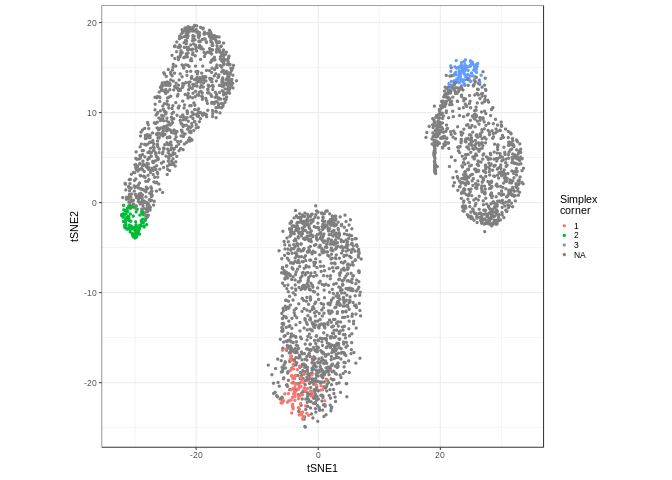
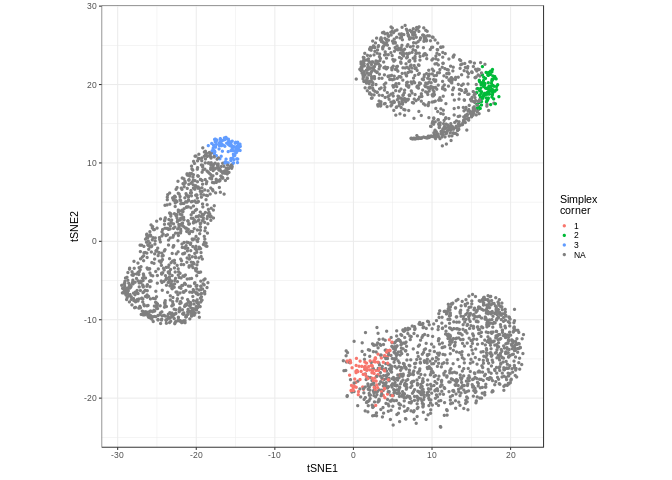
modified readme text

diff --git a/Readme.md b/Readme.md
@@ -27,7 +27,7 @@ lo <- LinseedObject$new("GSE19830", samples=10:42, topGenes=10000)
 Coolinearity networks
 ---------------------
 
-To build a coolinearity network we first have to evaluate all pairwise collinearity coefficients, all pairwise spearman correlation and then run select genes that have at least one gene that is very collinear ( *R*<sup>2</sup> &gt; =0.99 ) with it and 10 genes that are less collinear ( *R*<sup>2</sup> &gt; =0.95 ). We only leave genes that meet both requirements. Be very carefull `calculatePairwiseLinearity` is very memory-demanding method ( *N*<sup>2</sup> memory where *N* is the number of genes).
+To build a coolinearity network we first have to evaluate all pairwise collinearity coefficients, all pairwise spearman correlation and then run significance test which will calculate p value for each each by shuffling network weights randomly.
 
 ``` r
 lo$calculatePairwiseLinearity()
@@ -40,6 +40,13 @@ lo$significancePlot(0.01)
 
 ``` r
 lo$filterDatasetByPval(0.01)
+```
+
+    ## Total number of genes is 10000
+
+    ## The number of genes after filtering is 3297
+
+``` r
 lo$svdPlot()
 ```
 
@@ -67,7 +74,7 @@ lo$smartSearchCorners(dataset="filtered", error="norm")
 
     ## Final vector is
 
-    ## 4 5 2
+    ## 4 1 5
 
     ## 
 
